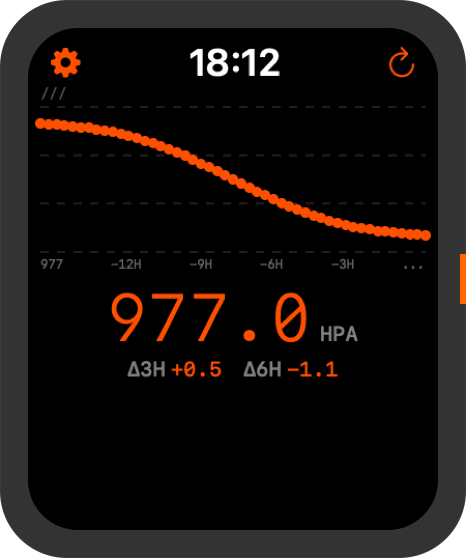
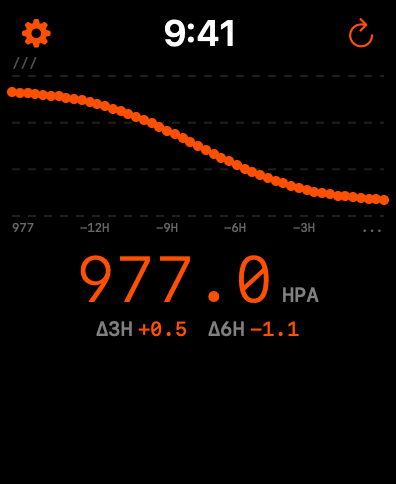
Update Pascal screenshots with 9:41 time, add widget

diff --git a/pascal/index.html b/pascal/index.html
@@ -28,7 +28,7 @@ description: Track atmospheric pressure to monitor weather-related migraine trig
             <span class="screenshot-label">TREND ANALYSIS</span>
         </div>
         <div class="screenshot-item">
-            <img src="iphone-widget.png" alt="Pascal widget on home screen" class="iphone">
+            <img src="widget.png" alt="Pascal widget" class="widget">
             <span class="screenshot-label">HOME WIDGET</span>
         </div>
         <div class="screenshot-item">

diff --git a/pascal/pascal.css b/pascal/pascal.css
@@ -179,7 +179,13 @@ body.pascal nav {
 }
 
 .screenshot-item .watch {
-    max-height: 320px;
+    max-height: 200px;
+    border-radius: 40px;
+}
+
+.screenshot-item .widget {
+    max-height: 160px;
+    border-radius: 24px;
 }
 
 .screenshot-label {
